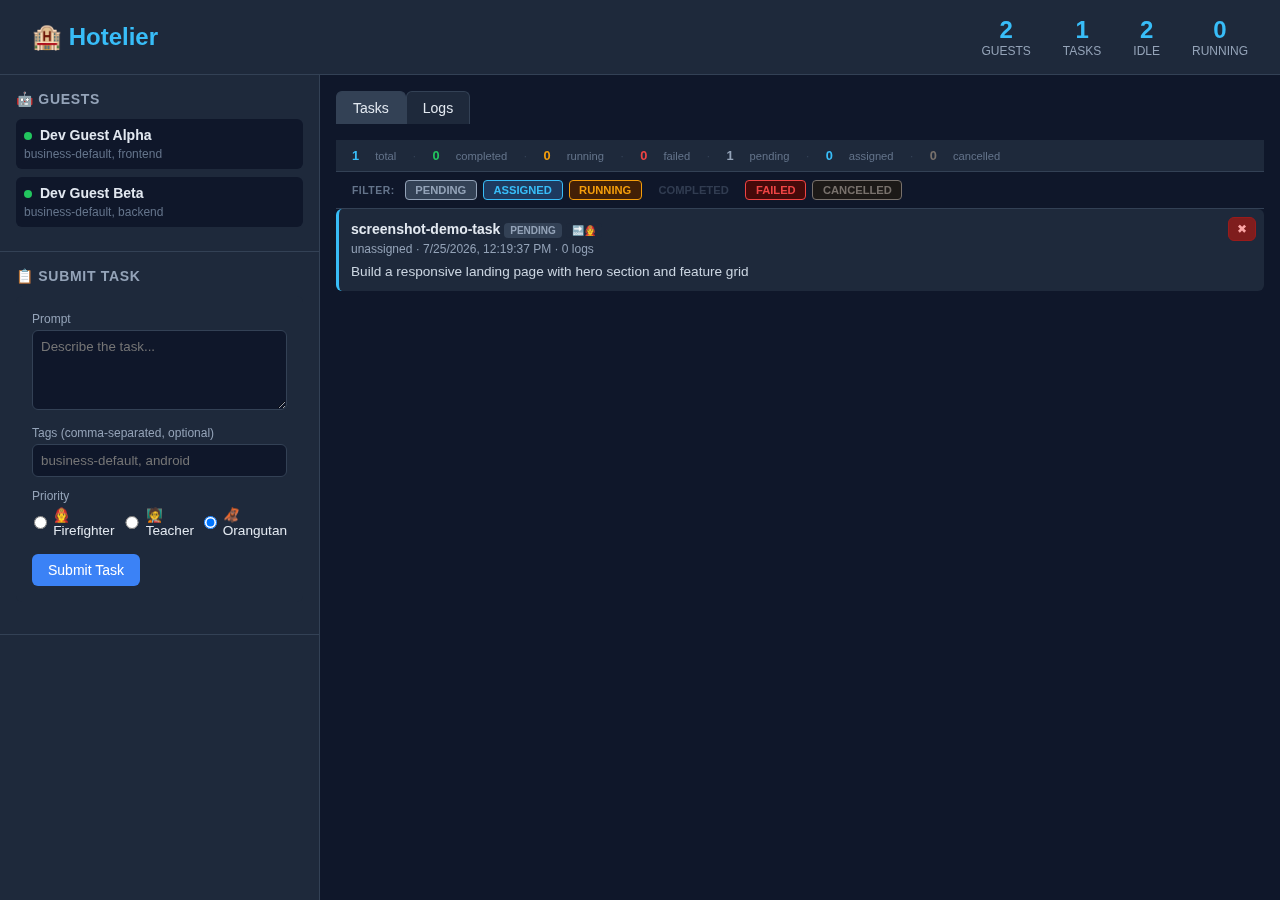
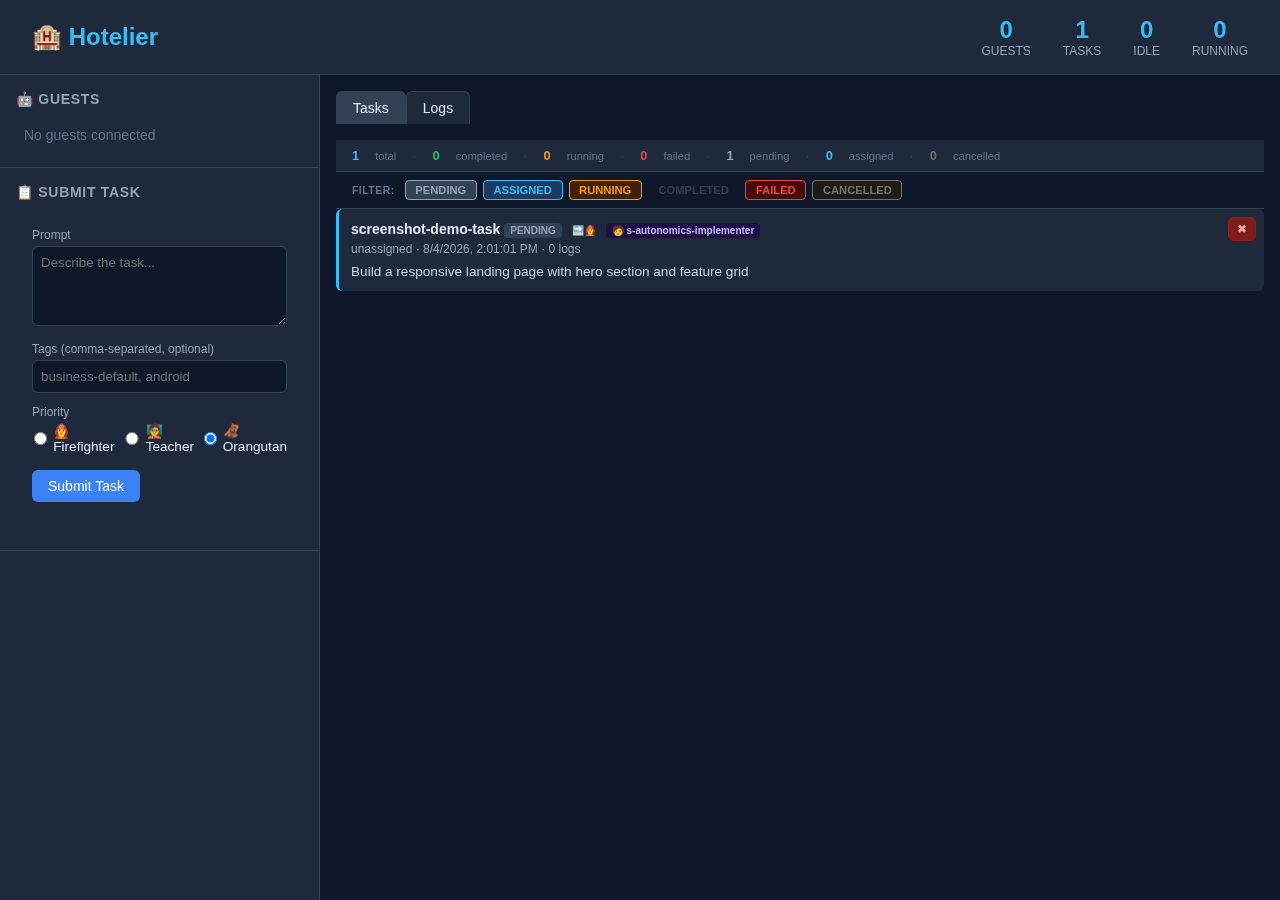
🩹 fix(ui): resolve merge conflict markers in index.html; update screenshot
- Remove unresolved Git merge conflict markers around priorityToEmoji()
  that caused a JavaScript syntax error breaking the entire UI
- Regenerate dashboard screenshot showing both priority badge (🔜🧑🚒)
  and persona badge (🧑 s-autonomics-implementer) on the same task

diff --git a/web/static/index.html b/web/static/index.html
@@ -849,8 +849,7 @@
             return div.innerHTML;
         }
 
-<<<<<<< HEAD
-        // priorityToEmoji maps the API priority string to its display emoji.
+// priorityToEmoji maps the API priority string to its display emoji.
         // API values are plain English: "firefighter", "teacher", "orangutan".
         function priorityToEmoji(priority) {
             const map = {
@@ -860,9 +859,6 @@
             };
             return map[priority] || priority;
         }
-
-=======
->>>>>>> origin/main
         // getFirstLine extracts the first line of text, optionally truncated to maxLen chars.
         function getFirstLine(text, maxLen) {
             if (!text) return '';
